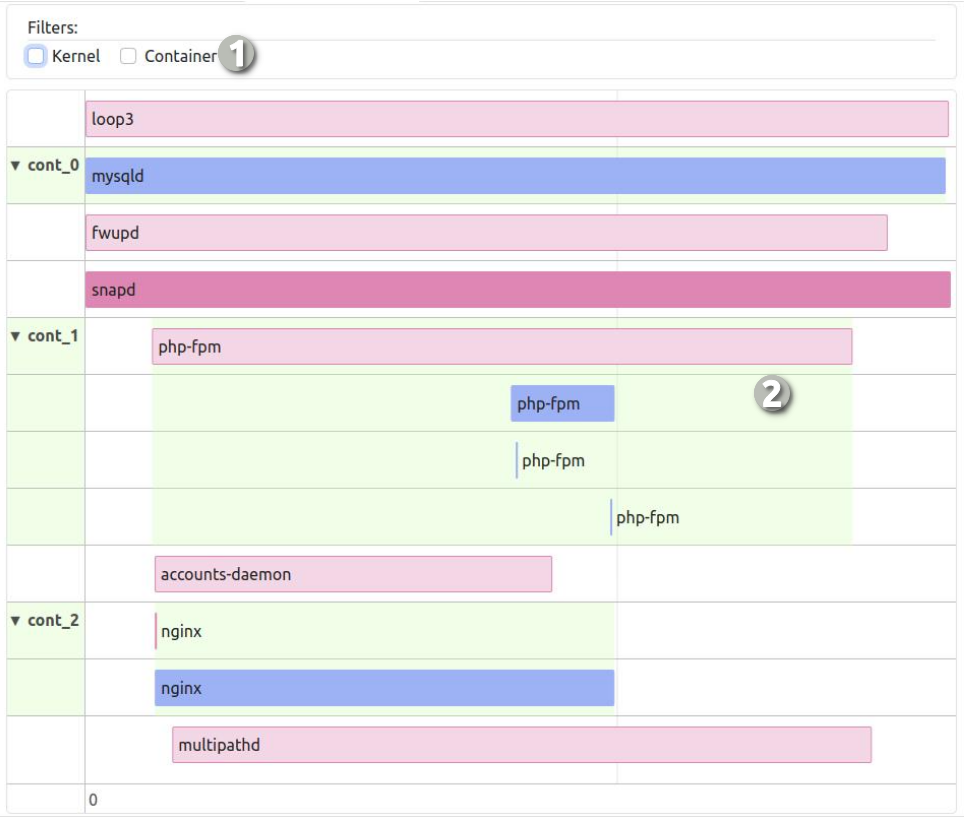
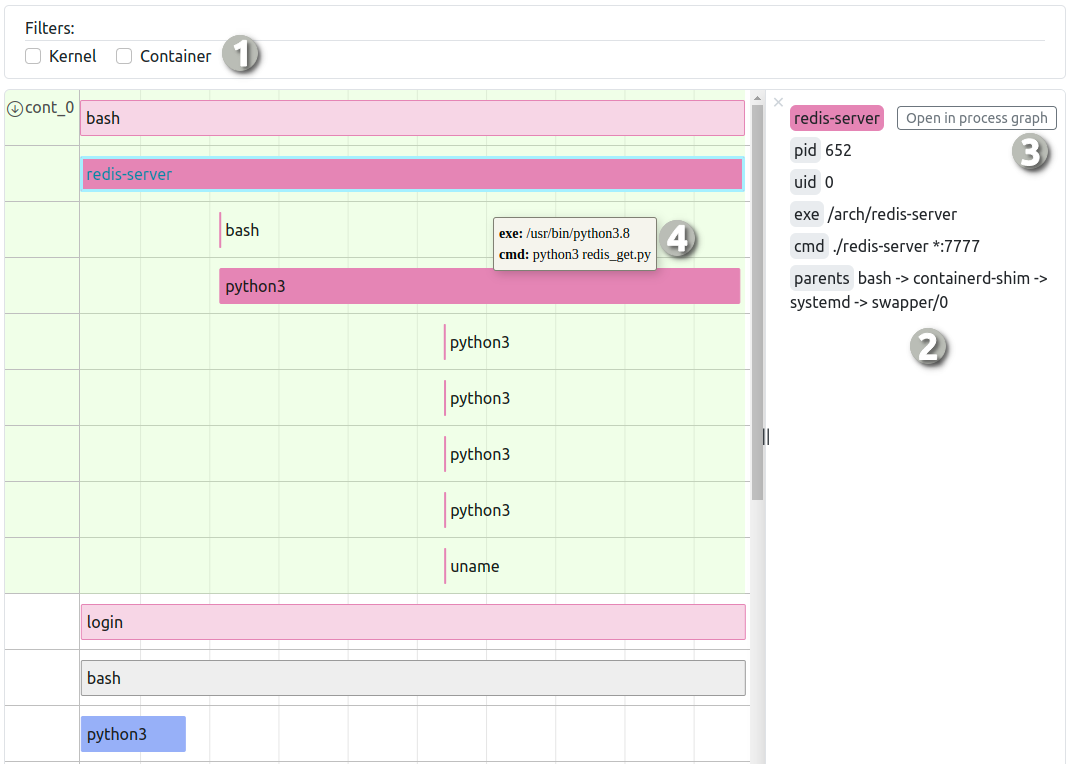
Updated 6_snatch.md

diff --git a/6_snatch.md b/6_snatch.md
@@ -193,10 +193,14 @@
 
 <img src=https://raw.githubusercontent.com/ispras/natch/main/images/snatch/snatch_process_timeline.png><figcaption>_Временной граф процессов_</figcaption>
 
+Временной граф процессов представляет собой граф, где горизонтальная ось отображает время выполнения процесса, от его начала и до завершения. Синим цветом на графе показаны процессы, в которых происходило взаимодействие с помеченными данными, бледно-розовым - процессы с root-привилегиями, ярко-розовым - процессы с root-привилегиями, взаимодействовавшие с помеченными данными. Зеленым фоном отмечены границы контейнеров.
+
 В данном окне представлены следующие элементы:
 
 1. Набор фильтров отображаемой информации. При установленной галочке *Kernel* на графе будут отображаться процессы уровня ядра; при галочке *Container* будут отображаться служебные процессы функционирования контейнеров (на данный момент docker).
-2. Временной граф процессов. Представляет собой граф, где горизонтальная ось отображает время выполнения процесса, от его начала и до завершения. Граф поддерживает изменение масштабов по временной оси с помощью колесика мыши. Синим цветом на графе показаны процессы, в которых происходило взаимодействие с помеченными данными. При наведении на процесс появляется всплывающая подсказка со следующей информацией о процессе (не для всех процессов доступен полный набор информации): имя процесса, pid, путь к исполняемому файлу, исполняемая команда, родительские процессы, список процессов-потомков. При двойном нажатии на процесс происходит открытие новой вкладки с графом процессов на шаге, соответствующем началу работы данного процесса.
+2. Боковая панель. При нажатии на процесс появляется боковая панель со следующей информацией о процессе (не для всех процессов доступен полный набор информации): имя процесса, pid, uid, путь к исполняемому файлу, исполняемая команда, родительские процессы.
+3. Кнопка открытия вкладки с графом процессов на моменте, когда выбранный процесс появился на графе первый раз.
+4. Всплывающее меню с краткой информацией о процессе (появляется при наведении). Включает в себя путь к бинарному файлу и строку запуска при наличии. 
 
 По умолчанию граф полностью вмещается по ширине в отображаемое окно, однако можно увеличить масштаб графа с помощью комбинации *Ctrl+Scroll*. В таком случае движение по горизонтальной оси для просмотра графа осуществляется с помощью перетаскивания графа с зажатой левой кнопкой мыши. Движение по вертикальной оси при этом осуществляется с помощью *Scroll* мышью.
 
